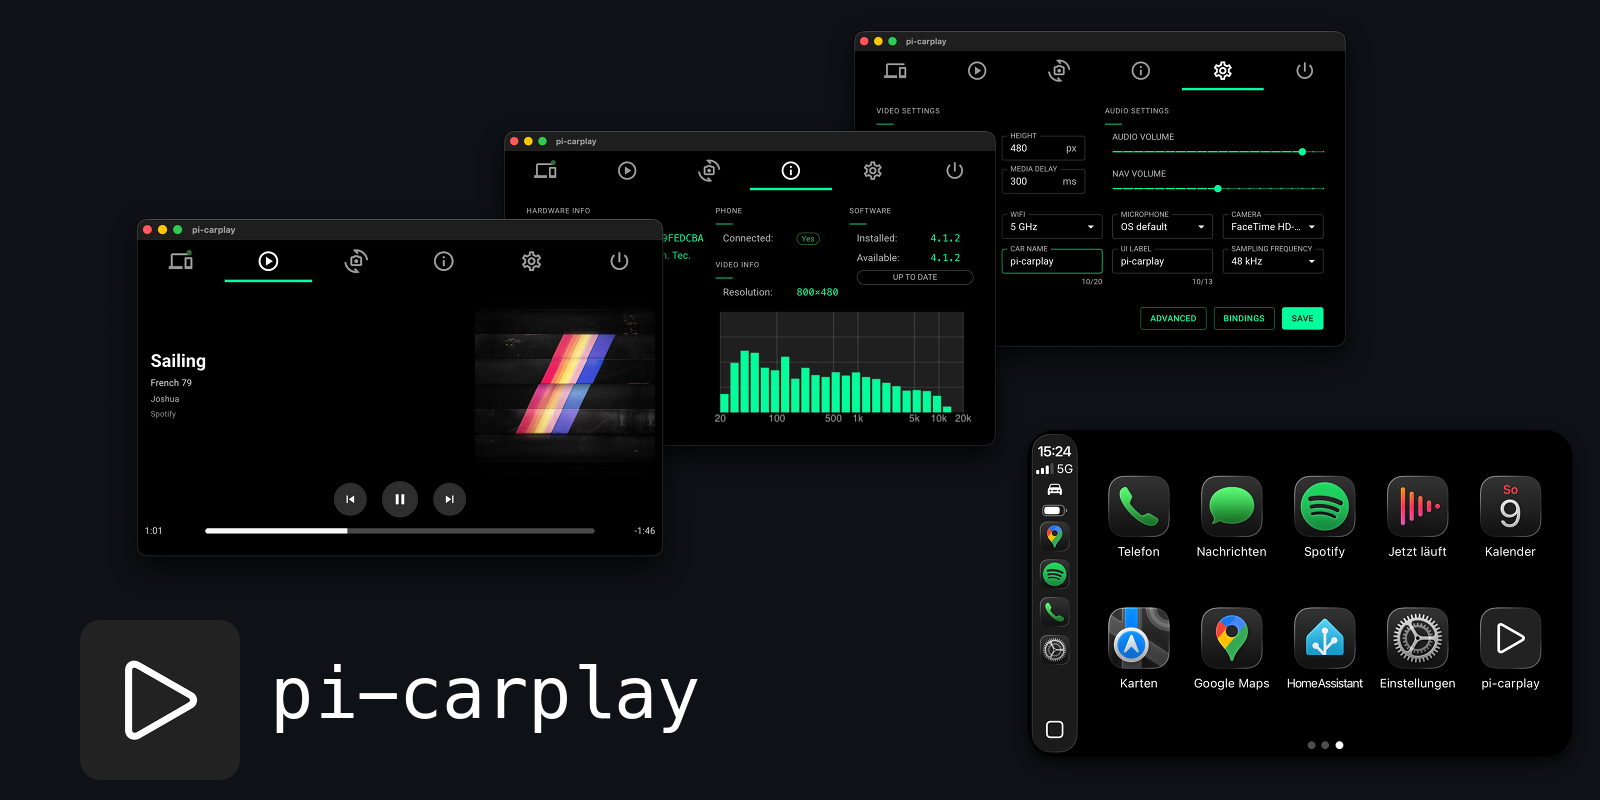
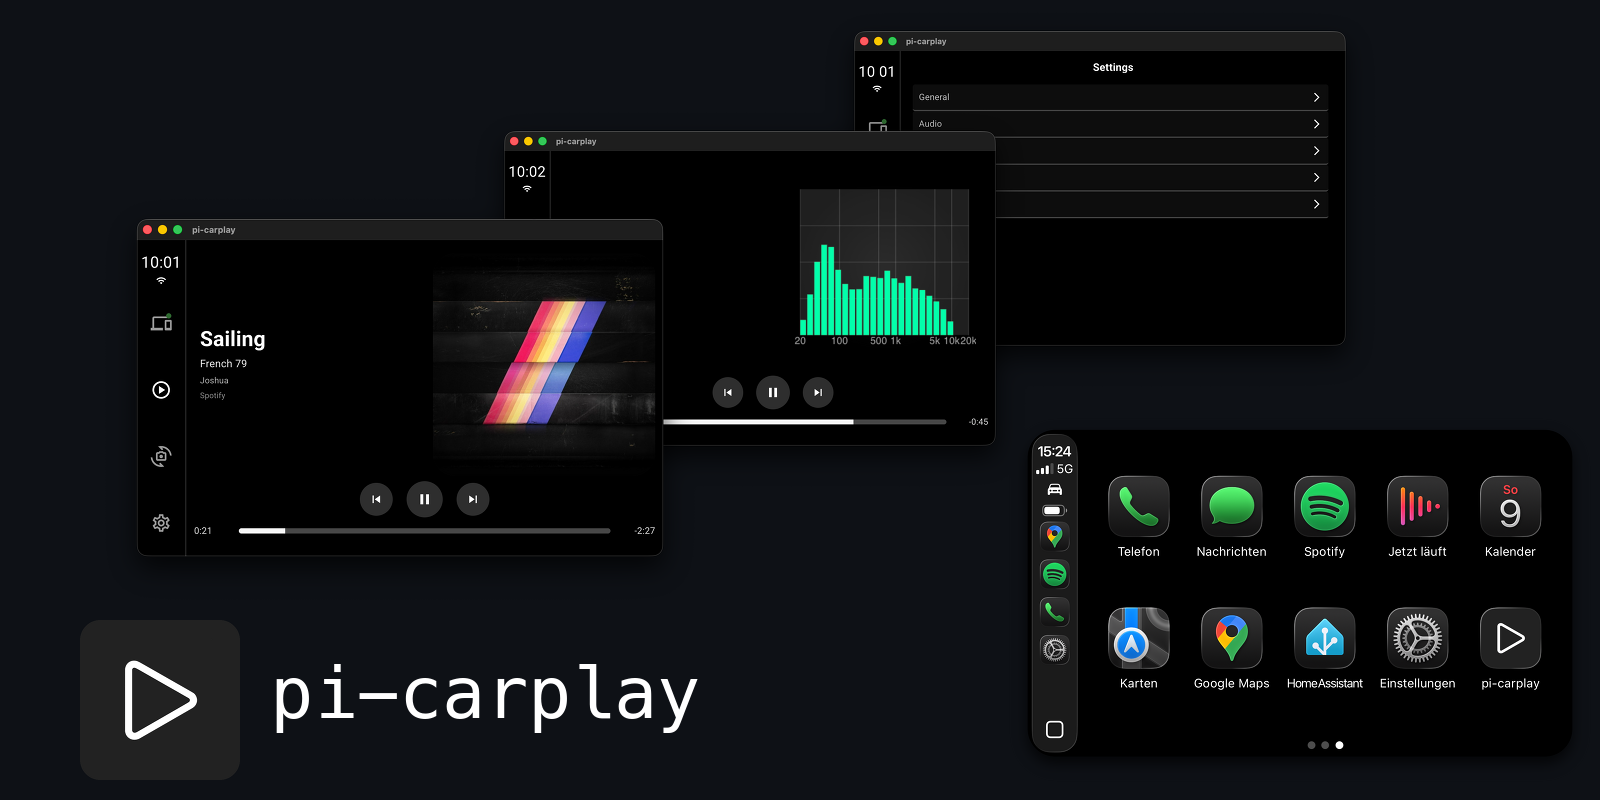
docs(gui): update GUI documentation

diff --git a/docs/index.html b/docs/index.html
@@ -267,7 +267,7 @@
       </p>
 
       <p style="text-align: center">
-        <img src="images/info.png" alt="Info" width="48%" />
+        <img src="images/fft.png" alt="Info" width="48%" />
         &emsp;
         <img src="images/settings.png" alt="Settings" width="48%" />
       </p>

diff --git a/README.md b/README.md
@@ -127,7 +127,7 @@ git clone --branch main --single-branch https://github.com/f-io/pi-carplay.git \
   <img src="docs/images/media.png" alt="Media" width="48%" align="top" />
 </p>
 <p align="center">
-  <img src="docs/images/info.png" alt="Info" width="48%" align="top" />
+  <img src="docs/images/fft.png" alt="Info" width="48%" align="top" />
   &emsp;
   <img src="docs/images/settings.png" alt="Settings" width="48%" align="top" />
 </p>
